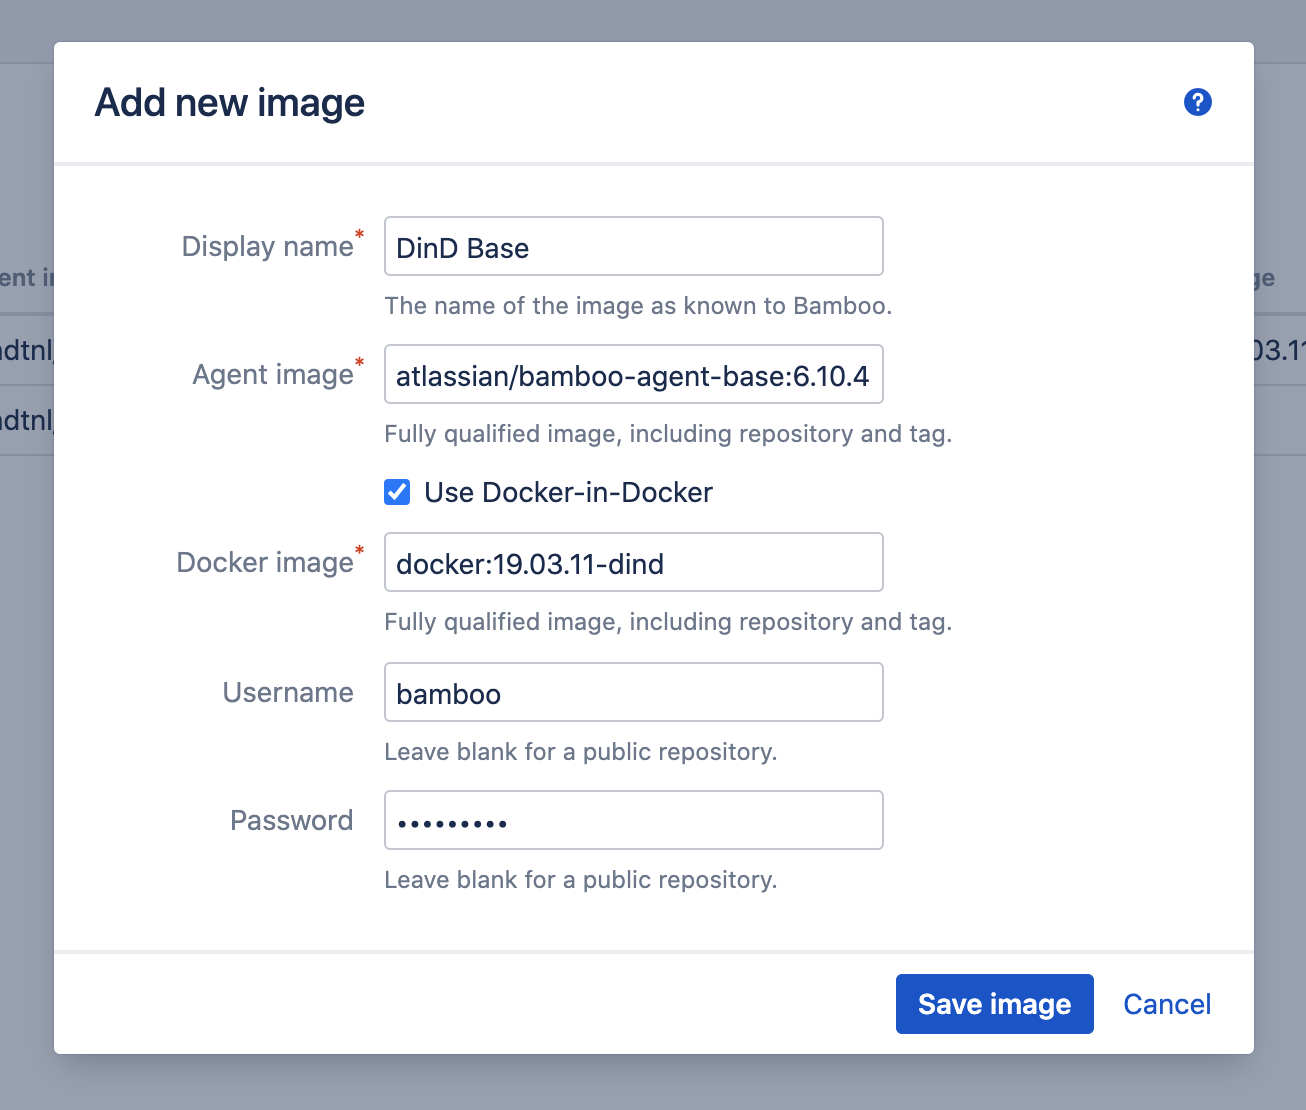
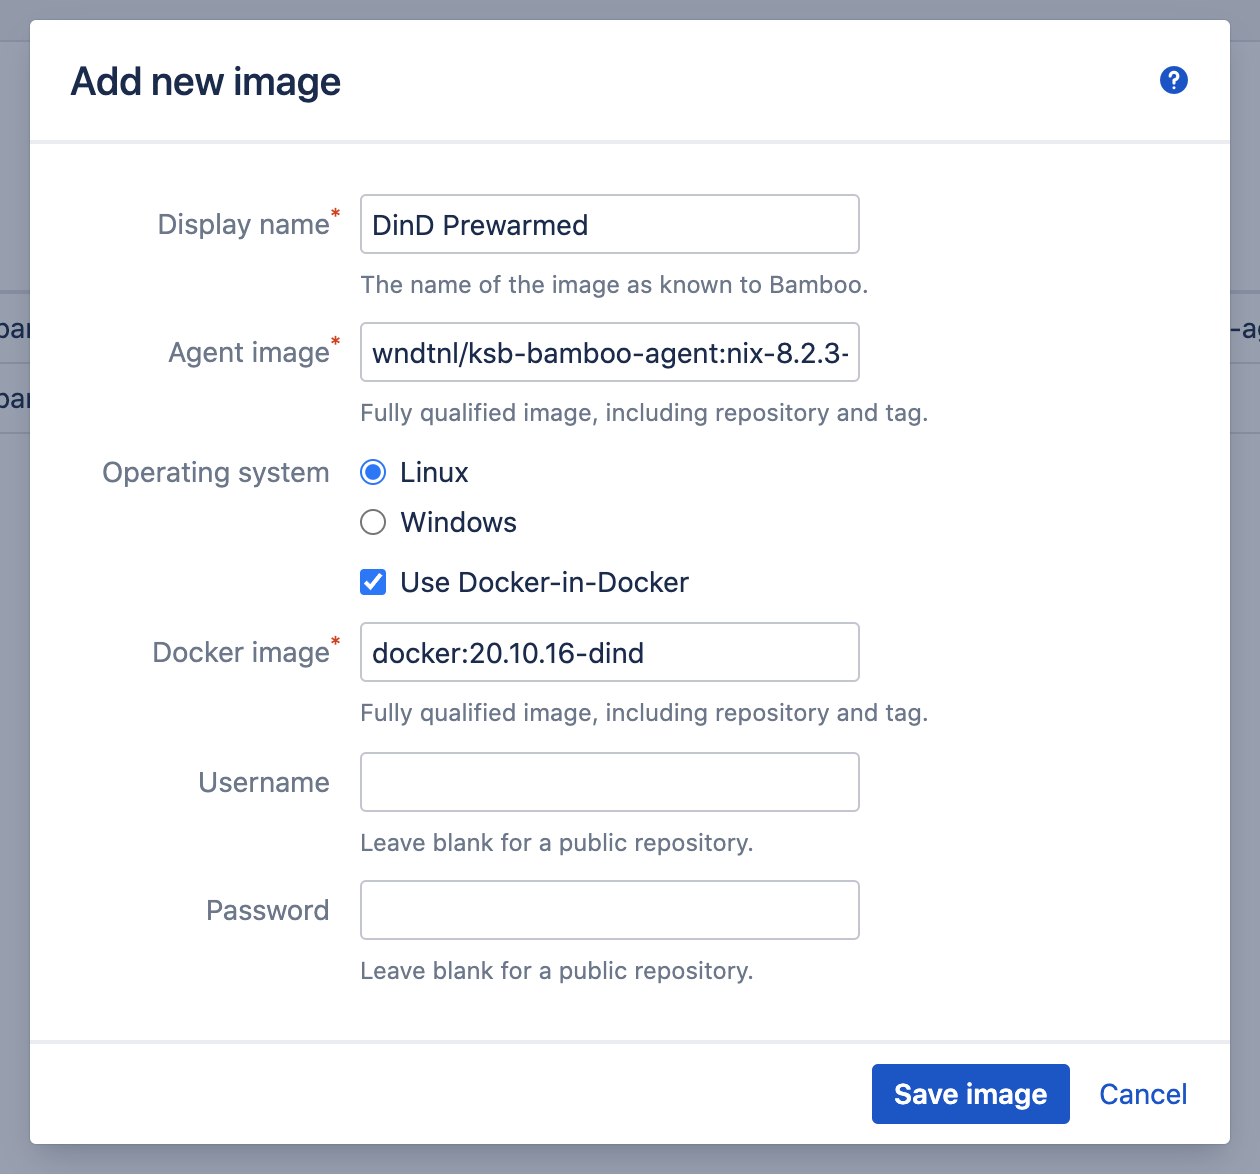
KSB documentation for Windows based images

Changed region(s): [[0.1238, 0.1838, 0.7429, 0.8577], [0.0, 0.0, 1.0, 0.9802], [0.0929, 0.3982, 0.2476, 0.4288]]

diff --git a/products/ksb/administration/images/images.md b/products/ksb/administration/images/images.md
@@ -12,6 +12,8 @@ Depending on the provided Image definition, the corresponding Pod specification 
 
 ### Standalone
 
+> This configuration is available to both Linux and Windows based agent images.
+
 The *Standalone* configuration is the default, and includes a single-container Pod with a persisted Agent home folder.
 The latter takes the form of a PersistentVolumeClaim, attached to the container as a Volume.
 The container image (called the *Agent image*) contains the Bamboo Agent bits and optionally any specific build tools.
@@ -22,6 +24,8 @@ The configuration is schematically illustrated below.
 <kbd>![image-type-standalone](../../_media/images/image_type_standalone.png "Image Type Standalone")</kbd>
 
 ### Docker-in-Docker 
+
+> This configuration is only available to Linux based agent images.
 
 The *Docker-in-Docker* (DinD) configuration extends the *Standalone* configuration with a second container, responsible for
 providing the Docker daemon. The daemon is securely exposed to the primary (build) container over the local network.
@@ -39,14 +43,24 @@ for additional instructions.
 
 ## Image Requirements
 
-The Docker image used for the *bamboo-agent* container must meet certain requirements, in order for the plugin to function correctly:
+The Docker images used for the *bamboo-agent* container must meet certain requirements, specific to the base operating system, in order for the plugin to function correctly.
+
+For both Linux and Windows:
 
 - The image must contain the agent installation files, and start the agent when the container starts.
 - The Bamboo server root url can be provided as the first container argument.
-- The agent must run as the *bamboo* user, with uid=1000 and gui=1000.
-- The agent home folder must be mountable below the path */home/bamboo/bamboo-agent-home*.
 - When using [secure token verification](https://confluence.atlassian.com/bamboo/agent-authentication-289277196.html#Agentauthentication-SecuritytokenverificationSecuritytokenverification), its value is accepted by the container as the environment variable SECURITY_TOKEN.
+
+Specifically for Linux:
+
+- The agent must run as the *bamboo* user, with uid=1000 and gid=1000.
+- The agent home folder must be mountable below the path */home/bamboo/bamboo-agent-home*.
 - When using Docker-in-Docker, the Docker client must be installed.
+
+Specifically for Windows:
+
+- The agent must run as the *bamboo* user, and be part of the *Administrator* group. This avoids permission issues with the mounted agent home volume.
+- The agent home folder must be mountable below the path *c:\Users\bamboo\bamboo-agent-home*.
 
 The easiest way to ensure these requirements are met is to use the images provided in our [Dockerhub repository](https://hub.docker.com/r/wndtnl/ksb-bamboo-agent).
 The source files for these images are maintained on [Github](https://github.com/wndtnl/ksb-bamboo-agent), and can be used to derive
@@ -54,8 +68,10 @@ more specialized and internally distributed images from.
 
 In case of doubt, use the following values for the agent image:
 
-- ***Standalone***: wndtnl/ksb-bamboo-agent:nix-\<bamboo-version\>-prewarm
-- ***Docker-in-Docker***: wndtnl/ksb-bamboo-agent:nix-\<bamboo-version\>-prewarm-dind
+- ***Standalone***: 
+    - Linux: *wndtnl/ksb-bamboo-agent:nix-\<bamboo-version\>-prewarm*
+    - Windows: *wndtnl/ksb-bamboo-agent:win-\<bamboo-version\>-prewarm*
+- ***Docker-in-Docker***: *wndtnl/ksb-bamboo-agent:nix-\<bamboo-version\>-prewarm-dind*
 
 Where *\<bamboo-version\>* is replaced with the version of your Bamboo server.
 
@@ -77,9 +93,17 @@ A descriptive, free-form name which is used to distinguish this image from other
 The fully qualified *Agent image* name and tag, which is used by the *bamboo-agent* container as discussed above.
 Please have a look at the provided [Dockerhub repository](https://hub.docker.com/r/wndtnl/ksb-bamboo-agent) for pre-built images and additional details.
 
+***Operating system***
+
+Specify the operating system flavor on which the agent image is based. This setting will influence the generated *nodeSelector > kubernetes.io/os* entry in the
+instance pod spec to ensure correct node scheduling.
+
+> When selecting *Windows* as operating system, it is not possible to use a Docker-in-Docker configuration nor the Bamboo Docker Runner. This is a (current) limitation
+> of both the Windows operating system and Bamboo.
+
 ***Use Docker-in-Docker***
 
-Allows the specification of a Docker image, and enables a Docker-in-Docker configuration as described above.
+Allows the specification of a Docker image, and enables a Docker-in-Docker configuration as described above. Only available for Linux-based agent images.
 
 ***Docker image***
 
